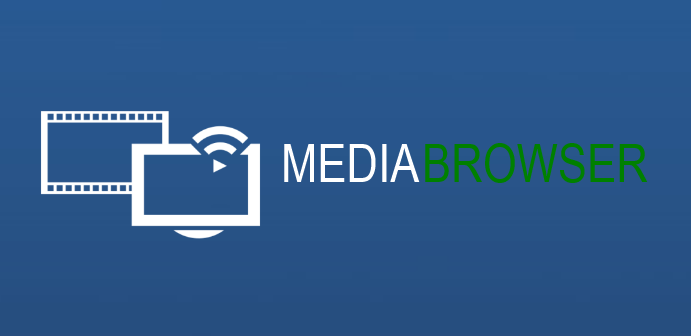
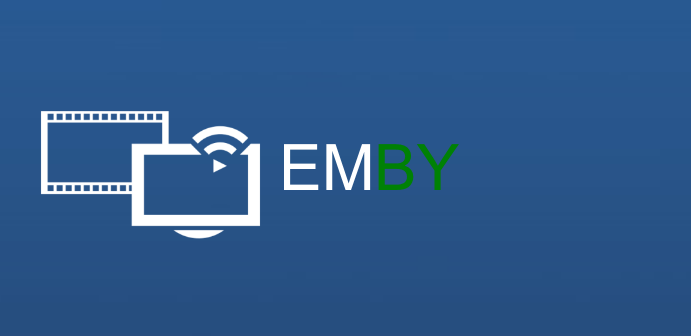
Finished preliminary rebranding

Changed region(s): [[0.3951, 0.4167, 0.9421, 0.5655]]

diff --git a/Emby.WindowsPhone/Splashscreen.xaml b/Emby.WindowsPhone/Splashscreen.xaml
@@ -64,11 +64,20 @@
                     Grid.Row="1"
                     VerticalAlignment="Top"
                     x:Name="Text">
-            <Image Source="/Assets/MediaTextWhite.png"
-                   Height="45" />
-            <Image Source="/Assets/BrowserText.png"
-                   Height="45" />
+            <TextBlock Text="EM"
+                       Style="{StaticResource PhoneTextExtraLargeStyle}"
+                       Foreground="White"
+                       Margin="0"
+                       FontWeight="ExtraLight"
+                       FontSize="60" />
+            <TextBlock Text="BY"
+                       Style="{StaticResource PhoneTextExtraLargeStyle}"
+                       Foreground="Green"
+                       FontSize="60"
+                       Margin="0"/>
         </StackPanel>
+        
+        
 
         <StackPanel Orientation="Vertical"
                     Grid.Row="2"

diff --git a/Emby.WindowsPhone/Views/MainPage.xaml b/Emby.WindowsPhone/Views/MainPage.xaml
@@ -107,9 +107,9 @@
                 <DataTemplate>
                     <StackPanel Orientation="Horizontal"
                                 Margin="-12,-41,0,18">
-                        <TextBlock Text="media"
+                        <TextBlock Text="em"
                                    Foreground="{StaticResource PhoneForegroundBrush}" />
-                        <TextBlock Text="browser"
+                        <TextBlock Text="by"
                                    Foreground="Green" />
                     </StackPanel>
                 </DataTemplate>

diff --git a/Emby.WindowsPhone/Controls/LockScreenMultiImage.xaml b/Emby.WindowsPhone/Controls/LockScreenMultiImage.xaml
@@ -104,8 +104,8 @@
                    HorizontalAlignment="Center"
                    Margin="0,0,0,0"
                    Style="{StaticResource PhoneTextLargeStyle}">
-				<Run Text="media" />
-				<Run Text="browser"
+				<Run Text="em" />
+				<Run Text="by"
                      Foreground="Green" />
         </TextBlock>
     </Grid>

diff --git a/Emby.WindowsPhone/Controls/LockScreenCollage.xaml b/Emby.WindowsPhone/Controls/LockScreenCollage.xaml
@@ -147,8 +147,8 @@
                    HorizontalAlignment="Center"
                    Style="{StaticResource PhoneTextLargeStyle}"
                    Grid.Row="0">
-				<Run Text="media" />
-				<Run Text="browser"
+				<Run Text="em" />
+				<Run Text="by"
                      Foreground="Green" />
         </TextBlock>
     </Grid>

diff --git a/Emby.WindowsPhone/EmbyUriMapper.cs b/Emby.WindowsPhone/EmbyUriMapper.cs
@@ -3,19 +3,21 @@ using System.Windows.Navigation;
 
 namespace Emby.WindowsPhone
 {
-    public class MediaBrowserUriMapper : UriMapperBase
+    public class EmbyUriMapper : UriMapperBase
     {
-        private const string Protocol = "mediabrowser";
+        private const string OldProtocol = "mediabrowser";
+        private const string Protocol = "emby";
         private const string PhotoUploadProtocol = "ConfigurePhotosUploadSettings";
 
         public override Uri MapUri(Uri uri)
         {
-            if (uri.ToString().ToLower().Contains(Protocol))
+            var url = uri.ToString().ToLower();
+            if (url.Contains(Protocol) || url.Contains(OldProtocol))
             {
                 return new Uri(Constants.Pages.SplashScreen, UriKind.Relative);
             }
 
-            if (uri.ToString().Contains(PhotoUploadProtocol))
+            if (url.Contains(PhotoUploadProtocol))
             {
                 return new Uri(string.Format(Constants.PhoneTileUrlFormat, "photouploadsettings", string.Empty, string.Empty), UriKind.Relative);
             }

diff --git a/Emby.WindowsPhone/Views/FirstRun/MbConnectFirstRunView.xaml.cs b/Emby.WindowsPhone/Views/FirstRun/MbConnectFirstRunView.xaml.cs
@@ -30,7 +30,7 @@ namespace Emby.WindowsPhone.Views.FirstRun
 
         private void SignUpButton_OnTap(object sender, GestureEventArgs e)
         {
-            new LauncherService().LaunchUriAsync("http://mediabrowser.tv/community/index.php?app=core&module=global&section=register");
+            new LauncherService().LaunchUriAsync("http://emby.media/community/index.php?app=core&module=global&section=register");
         }
 
         private void SkipButton_OnTap(object sender, GestureEventArgs e)

diff --git a/Emby.WindowsPhone/App.xaml.cs b/Emby.WindowsPhone/App.xaml.cs
@@ -251,7 +251,7 @@ namespace Emby.WindowsPhone
             // Handle reset requests for clearing the backstack
             RootFrame.Navigated += CheckForResetNavigation;
 
-            RootFrame.UriMapper = new MediaBrowserUriMapper();
+            RootFrame.UriMapper = new EmbyUriMapper();
 
             // Ensure we don't initialize again
             _phoneApplicationInitialized = true;
